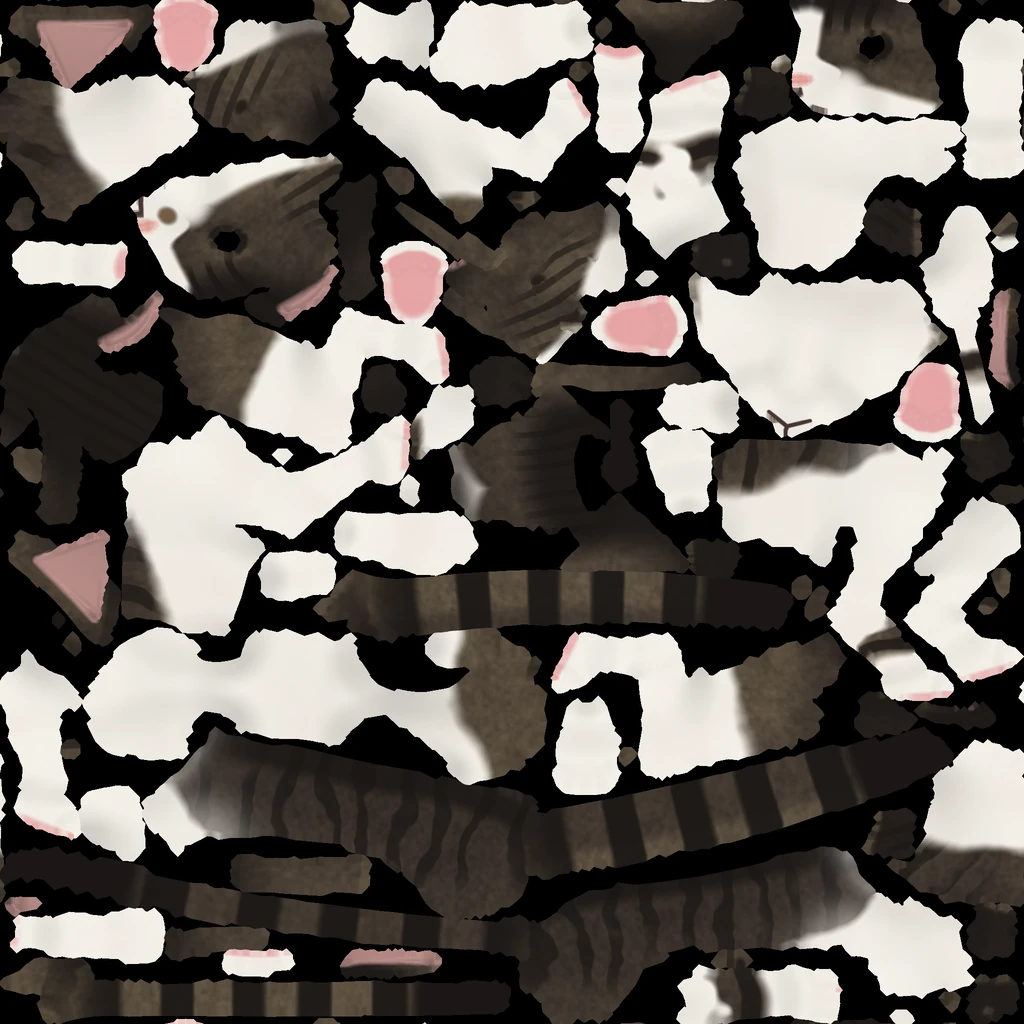
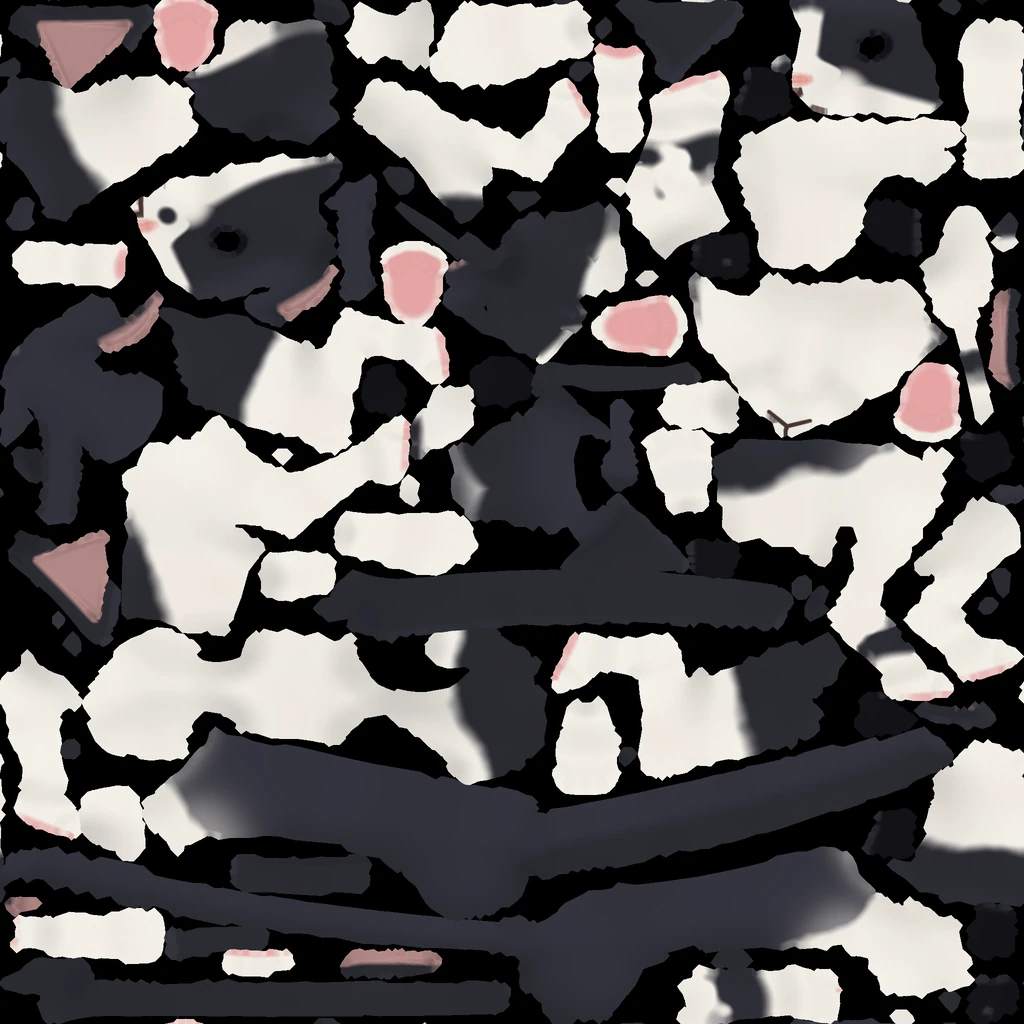
Noons is black and white, like Domino, with her own markings

diff --git a/js/catmodel.js b/js/catmodel.js
@@ -3,7 +3,7 @@
 import * as THREE from 'three';
 
 export const COATS = [
-  { id: 'noons', name: 'Noons', desc: 'Tabby & white', eye: [0x6c7a1c, 0xcfd45c], lid: 0x2a2420, swatch: { head: '#40372f', ear: '#2a2420', muzzle: '#f7f4ee', eye: '#b9c24a', nose: '#e29a92' }, fur: 0.85, tint: 0xf4f1ea, sheen: 0xd8d2c8 },
+  { id: 'noons', name: 'Noons', desc: 'Black & white', eye: [0x6c7a1c, 0xcfd45c], lid: 0x1b1b20, swatch: { head: '#24242a', ear: '#1b1b20', muzzle: '#f7f4ee', eye: '#b9c24a', nose: '#e29a92' }, fur: 0.9, tint: 0xe8f0ff, sheen: 0xaebbd8 },
   { id: 'moons', name: 'Moons', desc: 'Brown tabby', eye: [0x5f8a2a, 0xd6dc6c], lid: 0x3a2e24, swatch: { head: '#6f5f4b', ear: '#5a4a38', muzzle: '#dccbb0', eye: '#b4cf58', nose: '#a4584e' }, fur: 0.85, tint: 0xfff2e2, sheen: 0xe6d4b8 },
   { id: 'mango', name: 'Mango', desc: 'Orange tabby', eye: [0x5c8f1e, 0xc8e05a], lid: 0xc9701c, swatch: { head: '#e08a30', ear: '#c9701c', muzzle: '#fbebd0', eye: '#8fc43c', nose: '#e07f86' }, fur: 1.0, tint: 0xfff0e0, sheen: 0xffd9a8 },
   { id: 'domino', name: 'Domino', desc: 'Tuxedo', eye: [0xb98a10, 0xffe066], lid: 0x1b1b20, swatch: { head: '#24242a', ear: '#1b1b20', muzzle: '#f7f5f0', eye: '#f2c93a', nose: '#e8a0aa' }, fur: 0.9, tint: 0xe8f0ff, sheen: 0xaebbd8 },

diff --git a/art/cat_build.py b/art/cat_build.py
@@ -347,13 +347,14 @@ def coat_moons(Pq, W, parts, n, m):
     return col
 
 def coat_noons(Pq, W, parts, n, m):
-    """Noons: dark tabby cap, saddle and tail over white; white blaze, muzzle, chest, legs and belly."""
+    """Noons: black cap, saddle and tail over white; white blaze, muzzle, chest, legs and belly."""
     x, y, z = Pq[:, 0], Pq[:, 1], Pq[:, 2]; ax = np.abs(x)
     hx, hy, hz, Ph = head_coords(Pq)
-    dark = rgb(0x1B1715)
-    tab = tabby(Pq, n, m, rgb(0x40372F), rgb(0x6C5E49), dark, 47, body_s=.7)
+    dark = rgb(0x0E0E12)
+    nzb = fbm(Pq, 10.0, 4, 5)
+    tab = np.tile(rgb(0x2B2B33), (len(Pq), 1))                                                # same black as Domino
+    tab = mix(tab, rgb(0x3C3C48), m['top'] * .5 + (nzb - .5) * .3)
     hd = np.clip(m['head'], 0, 1)
-    tab = mix(tab, dark, hd * sstep(.418, .45, hy) * (1 - sstep(.055, .095, hx)) * .88)      # near-black crown
     e = (fbm(Pq, 6.0, 3, 53) - .5) * .075; e2 = (fbm(Pq, 22.0, 3, 59) - .5) * .02
     yb = np.interp(z, [-.3, -.2, -.06, .08, .16, .27], [.13, .17, .255, .30, .335, .42]).astype(F) + e + e2
     w = sstep(yb + .01, yb - .01, y)
@@ -368,7 +369,6 @@ def coat_noons(Pq, W, parts, n, m):
     wh = np.clip(np.maximum.reduce([lower, blaze, m['muzzle']]), 0, 1)
     smudge = 1 - sstep(.0065, .0115, norm(Ph - V(-.019, .367, .388)))                            # the tabby freckle beside the nose
     wh = wh * (1 - smudge)
-    tab = mix(tab, rgb(0x8C6E50), smudge * .7)
     w = w * (1 - hd) + wh * hd
     white = mix(np.tile(rgb(0xF7F4EE), (len(Pq), 1)), rgb(0xECE4D8), fbm(Pq, 12.0, 3, 67) * .6)
     col = mix(tab, white, np.clip(w, 0, 1))
